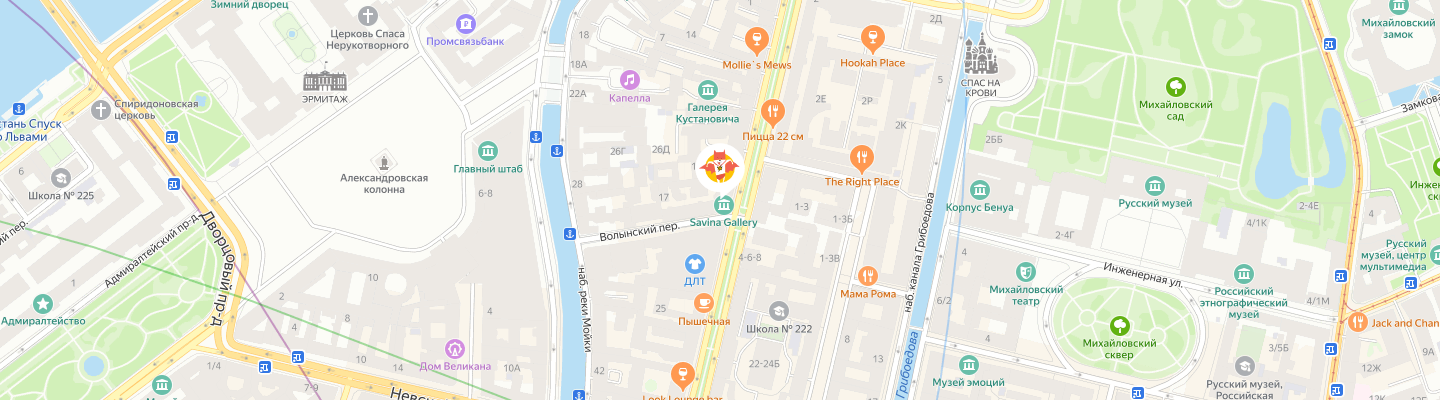
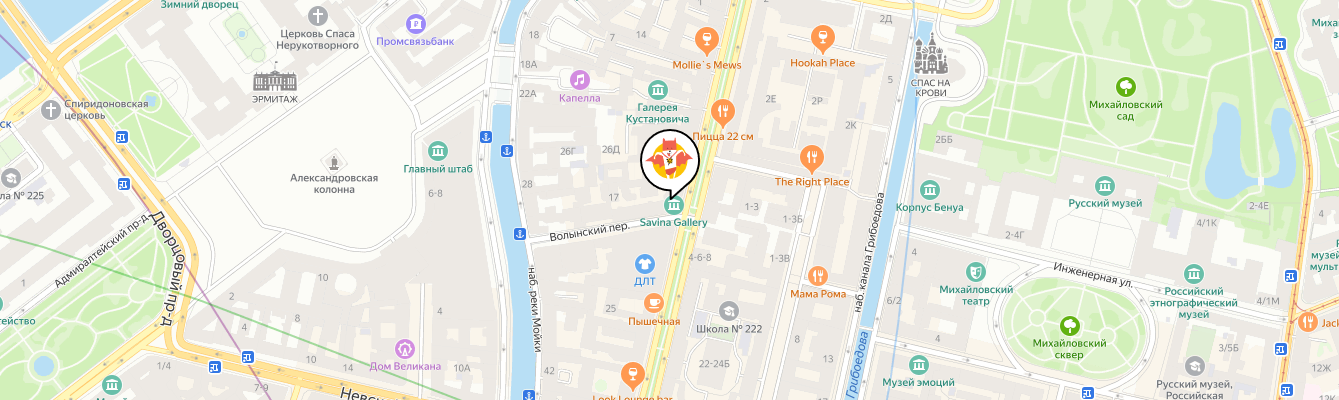
add map block

diff --git a/src/js/MapYandex.js b/src/js/MapYandex.js
@@ -2,8 +2,8 @@ export class MapYandex {
   constructor(settings = {}) {
     this.settings = Object.assign(
       {
-        mapContainerID: "map",
-        src: "https://api-maps.yandex.ru/2.1/?lang=ru_RU",
+        mapContainerID: 'map',
+        src: 'https://api-maps.yandex.ru/2.1/?lang=ru_RU',
         zoom: 15,
         scrollZoom: true,
         pin: false,
@@ -19,45 +19,45 @@ export class MapYandex {
   }
 
   init() {
-    window.addEventListener("scroll", this.mapInitializer);
+    window.addEventListener('scroll', this.mapInitializer);
     this.mapInitializer();
   }
 
   mapCreate() {
-    const myMap = new ymaps.Map(this.settings.mapContainerID, {
-      center: [this.settings.xCoord, this.settings.yCoord],
+    this.myMap = new ymaps.Map(this.settings.mapContainerID, {
+      center: [this.settings.yCenter, this.settings.xCenter],
       zoom: this.settings.zoom,
       controls: [],
     });
 
     if (this.settings.pin) {
       const placemark = new ymaps.Placemark(
-        [this.settings.xCoord, this.settings.yCoord],
+        [this.settings.yPin, this.settings.xPin],
         {},
         {
-          iconLayout: "default#image",
+          iconLayout: 'default#image',
           iconImageHref: this.settings.pin.path,
           iconImageSize: this.settings.pin.size,
           iconImageOffset: this.settings.pin.offset,
         }
       );
-      myMap.geoObjects.add(placemark);
+      this.myMap.geoObjects.add(placemark);
     } else {
       const placemark = new ymaps.Placemark([
-        this.settings.xCoord,
-        this.settings.yCoord,
+        this.settings.yPin,
+        this.settings.xPin,
       ]);
-      myMap.geoObjects.add(placemark);
+      this.myMap.geoObjects.add(placemark);
     }
 
     if (!this.settings.scrollZoom) {
-      myMap.behaviors.disable("scrollZoom");
-      myMap.controls.add("zoomControl");
+      this.myMap.behaviors.disable('scrollZoom');
+      this.myMap.controls.add('zoomControl');
     }
 
     if (this.settings.controls) {
       this.settings.controls.forEach((el) => {
-        myMap.controls.add(el);
+        this.myMap.controls.add(el);
       });
     }
   }
@@ -66,13 +66,13 @@ export class MapYandex {
     const mapCoord = this.mapContainer.getBoundingClientRect().top;
 
     if (mapCoord <= document.documentElement.clientHeight * 2) {
-      const mapScript = document.createElement("script");
+      const mapScript = document.createElement('script');
       mapScript.src = this.settings.src;
       document.body.append(mapScript);
       mapScript.onload = () => {
         ymaps.ready(this.mapCreate.bind(this));
       };
-      window.removeEventListener("scroll", this.mapInitializer);
+      window.removeEventListener('scroll', this.mapInitializer);
     }
   }
 }
@@ -83,8 +83,10 @@ export class MapYandex {
 //   src: 'https://api-maps.yandex.ru/2.1/?lang=ru_RU',
 //   zoom: 10,
 //   scrollZoom: false,
-//   xCoord: 0,
-//   yCoord: 0,
+//   yCenter: 0,
+//   xCenter: 0,
+//   yPin: 0,
+//   xPin: 0,
 //   pin: {
 //     path: 'img/backgrounds/map-pin.svg',
 //     size: [50, 50],

diff --git a/src/js/AdaptiveCenterMap.js b/src/js/AdaptiveCenterMap.js
@@ -1,0 +1,59 @@
+import { MapYandex } from './MapYandex';
+
+export class AdaptiveCenterMap extends MapYandex {
+  constructor(settings) {
+    super(settings);
+
+    this.changeCenter = this.changeCenter.bind(this);
+    this.checkCenter();
+  }
+
+  mapCreate() {
+    super.mapCreate();
+    this.changeCenter();
+  }
+
+  checkCenter() {
+    window.addEventListener('resize', this.changeCenter);
+  }
+
+  changeCenter() {
+    if (this.myMap && window.innerWidth >= this.settings.breakpoint) {
+      this.myMap.setCenter([
+        this.settings.newYCenter,
+        this.settings.newXCenter,
+      ]);
+    } else if (this.myMap && window.innerWidth < this.settings.breakpoint) {
+      this.myMap.setCenter([this.settings.yCenter, this.settings.xCenter]);
+    }
+  }
+}
+
+//возможные настройки
+// settings = {
+//   mapContainerID: 'map',
+//   src: 'https://api-maps.yandex.ru/2.1/?lang=ru_RU',
+//   zoom: 10,
+//   scrollZoom: false,
+//   yCenter: 0,
+//   xCenter: 0,
+//   yPin: 0,
+//   xPin: 0,
+//   pin: {
+//     path: 'img/backgrounds/map-pin.svg',
+//     size: [50, 50],
+//     offset: [-25, -50],
+//   },
+//   controls: [
+//     'zoomControl',
+//     'geolocationControl',
+//     'searchControl',
+//     'trafficControl',
+//     'typeSelector',
+//     'rulerControl',
+//     'fullscreenControl',
+//   ],
+//   breakpoint: 0,
+//   newYCenter: 0,
+//   newXCenter: 0,
+// };

diff --git a/src/js/index.js b/src/js/index.js
@@ -1,15 +1,20 @@
-// import { MapYandex } from "./MapYandex";
 import { MobileMenu } from './MobileMenu';
+import { AdaptiveCenterMap } from './AdaptiveCenterMap';
 
 const mobileMenu = new MobileMenu();
 
-// const map = new MapYandex({
-//   xCoord: 59.938633647616214,
-//   yCoord: 30.32304549758399,
-//   pin: {
-//     path: "img/backgrounds/map-pin.svg",
-//     size: [50, 57],
-//     offset: [-25, -57],
-//   },
-//   zoom: 16,
-// });
+const map = new AdaptiveCenterMap({
+  yCenter: 59.938633647616214,
+  xCenter: 30.32304549758399,
+  yPin: 59.938633647616214,
+  xPin: 30.32304549758399,
+  pin: {
+    path: 'img/backgrounds/map-pin.svg',
+    size: [60, 71],
+    offset: [-30, -71],
+  },
+  zoom: 16,
+  breakpoint: 1440,
+  newYCenter: 59.938633647616214,
+  newXCenter: 30.317,
+});

diff --git a/src/html/index.html b/src/html/index.html
@@ -36,6 +36,7 @@
     program: 'href="program.html"'})
     <main>
       <!-- Use this file for include HTML components. For example @@include("./_example.html").  -->
+      @@include("./_contacts.html")
     </main>
     @@include("./_footer.html")
     <script src="./js/index.js"></script>

diff --git a/src/scss/components/_contacts.scss b/src/scss/components/_contacts.scss
@@ -1,0 +1,16 @@
+.contacts {
+  //.contacts__container
+  &__container {
+  }
+
+  //.contacts__map
+  &__map {
+    width: 100%;
+    height: 360px;
+    max-height: 80vh;
+
+    @media #{$tablet} {
+      height: 400px;
+    }
+  }
+}

diff --git a/src/scss/components/_map.scss b/src/scss/components/_map.scss
@@ -1,0 +1,8 @@
+.map {
+  background: no-repeat center/cover url(../../img/backgrounds/map-bg.png);
+
+  @media #{$desktop} {
+    background: no-repeat center/cover
+      url(../../img/backgrounds/map-bg-desktop.png);
+  }
+}

diff --git a/src/html/_contacts.html b/src/html/_contacts.html
@@ -1,0 +1,4 @@
+<section class="contacts">
+  <div class="container contacts__container"></div>
+  <div class="map contacts__map" id="map"></div>
+</section>
